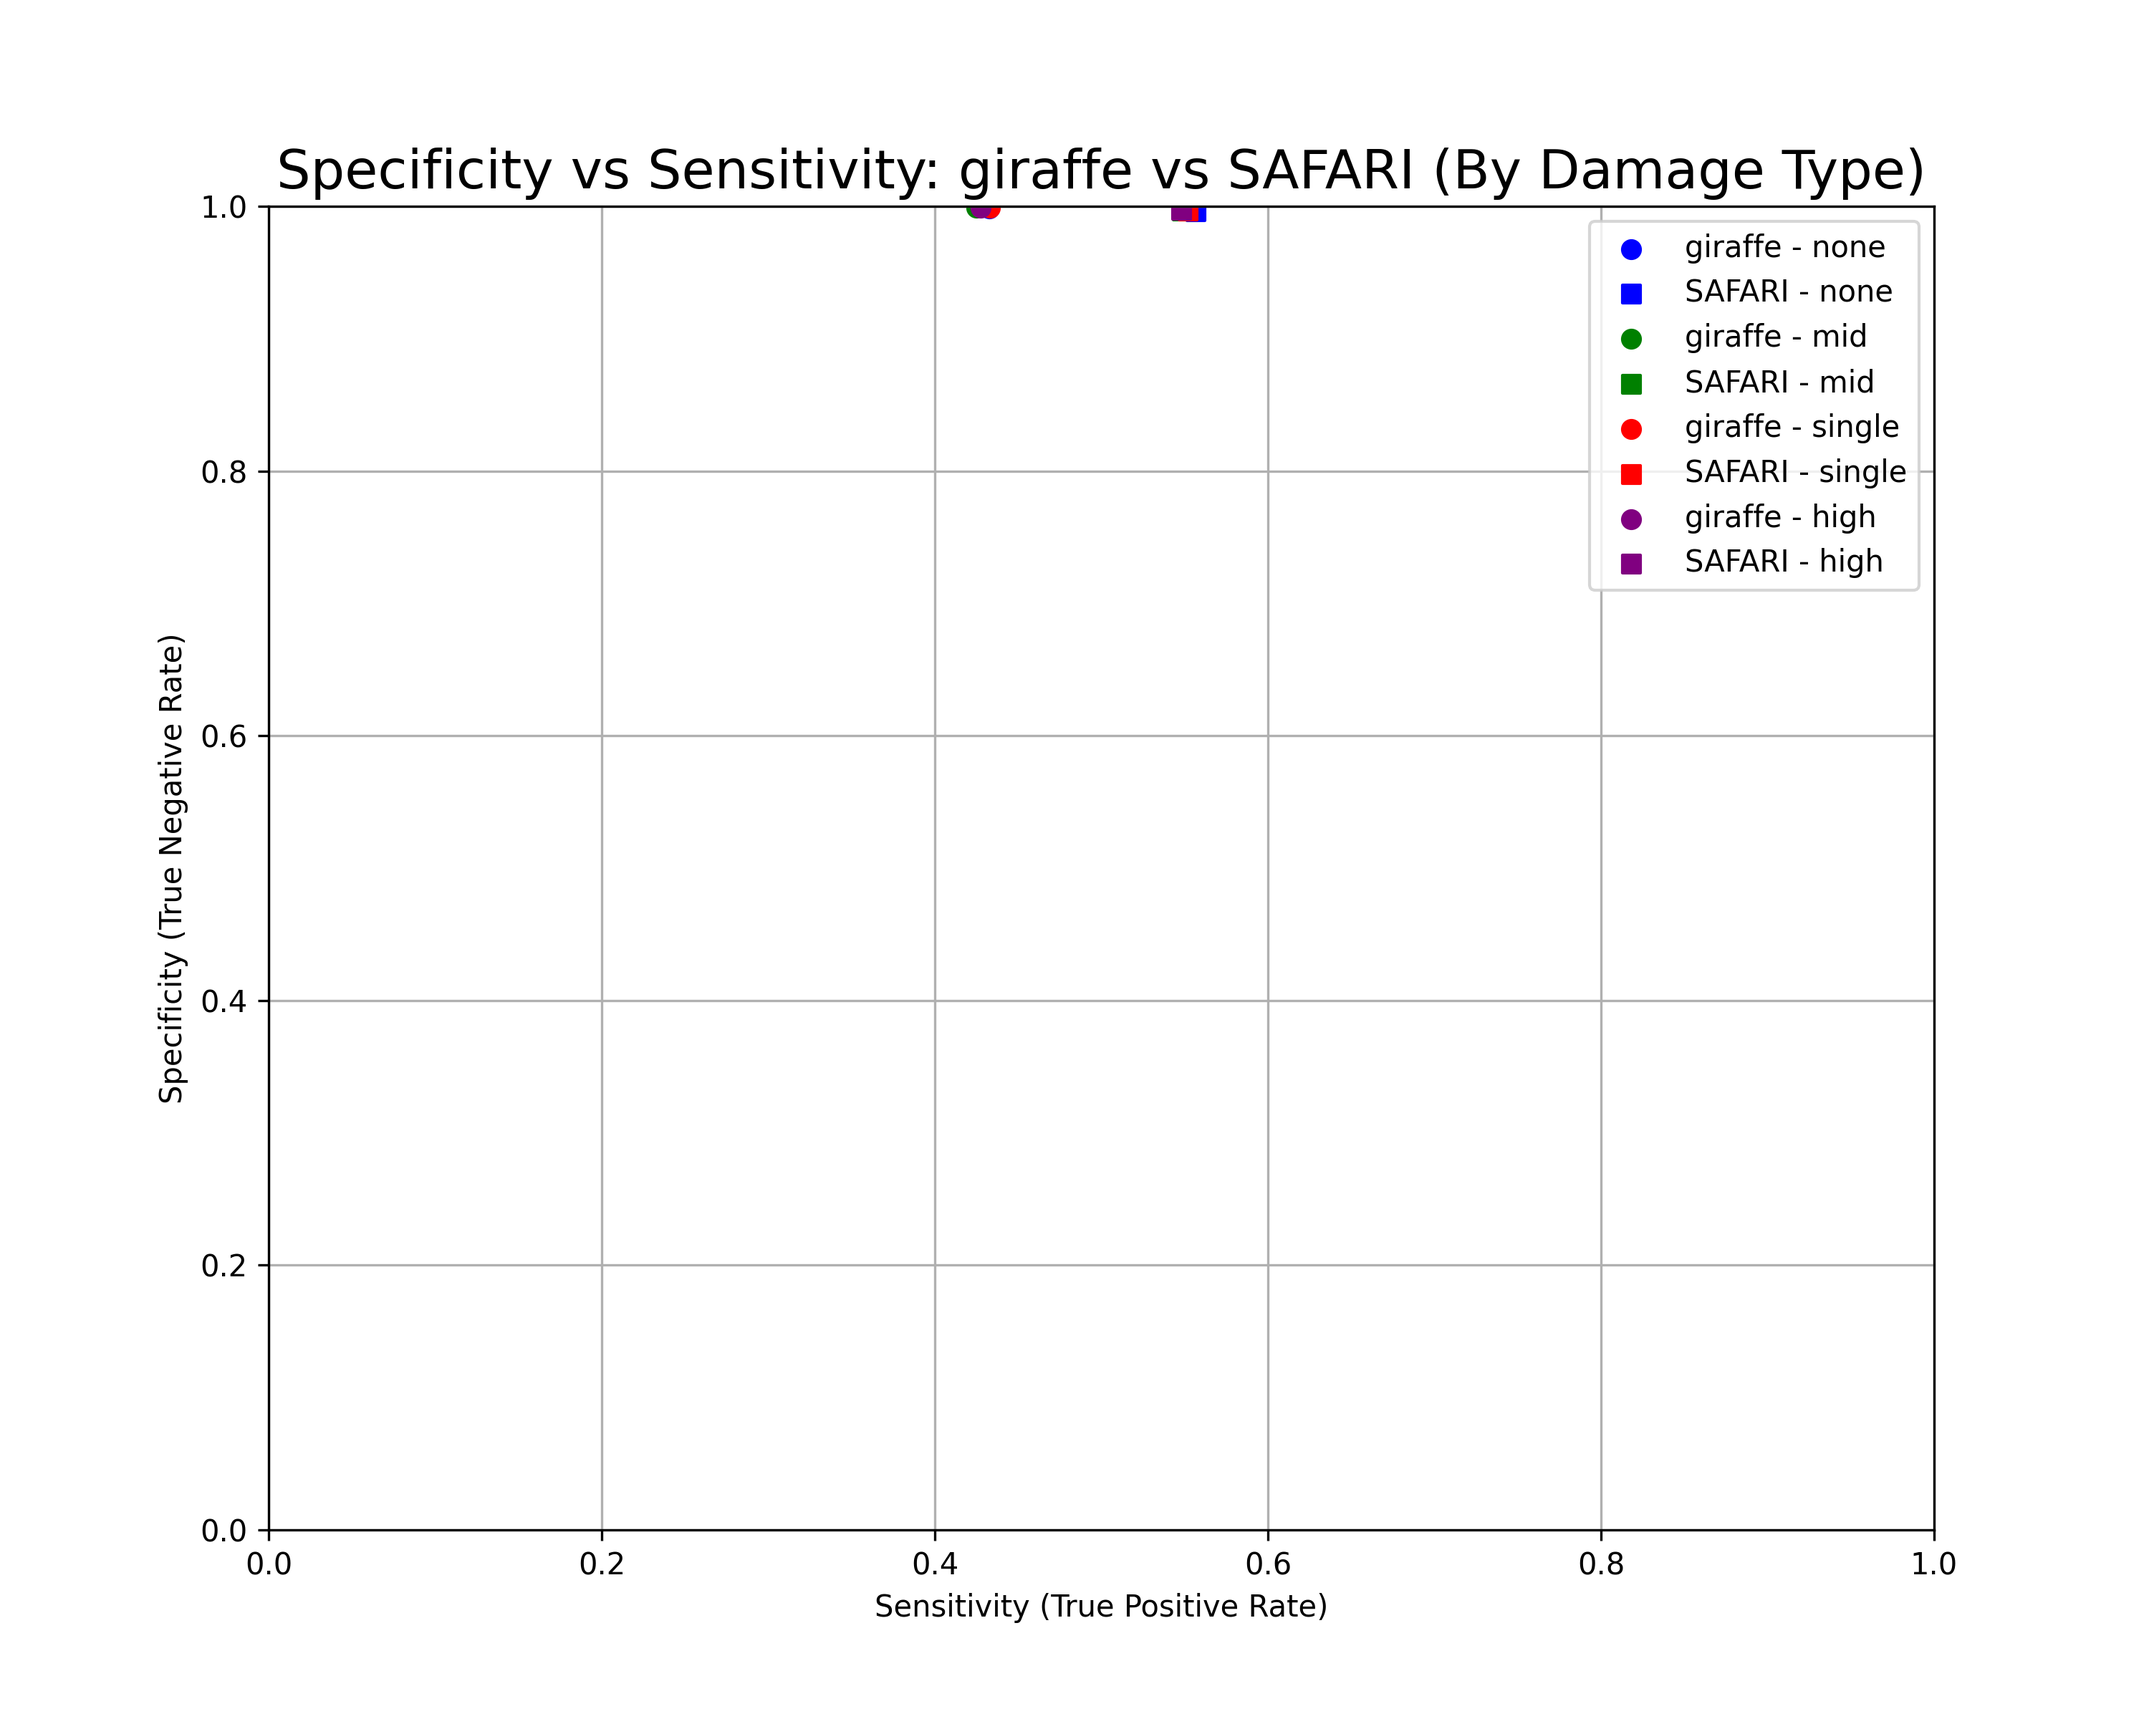
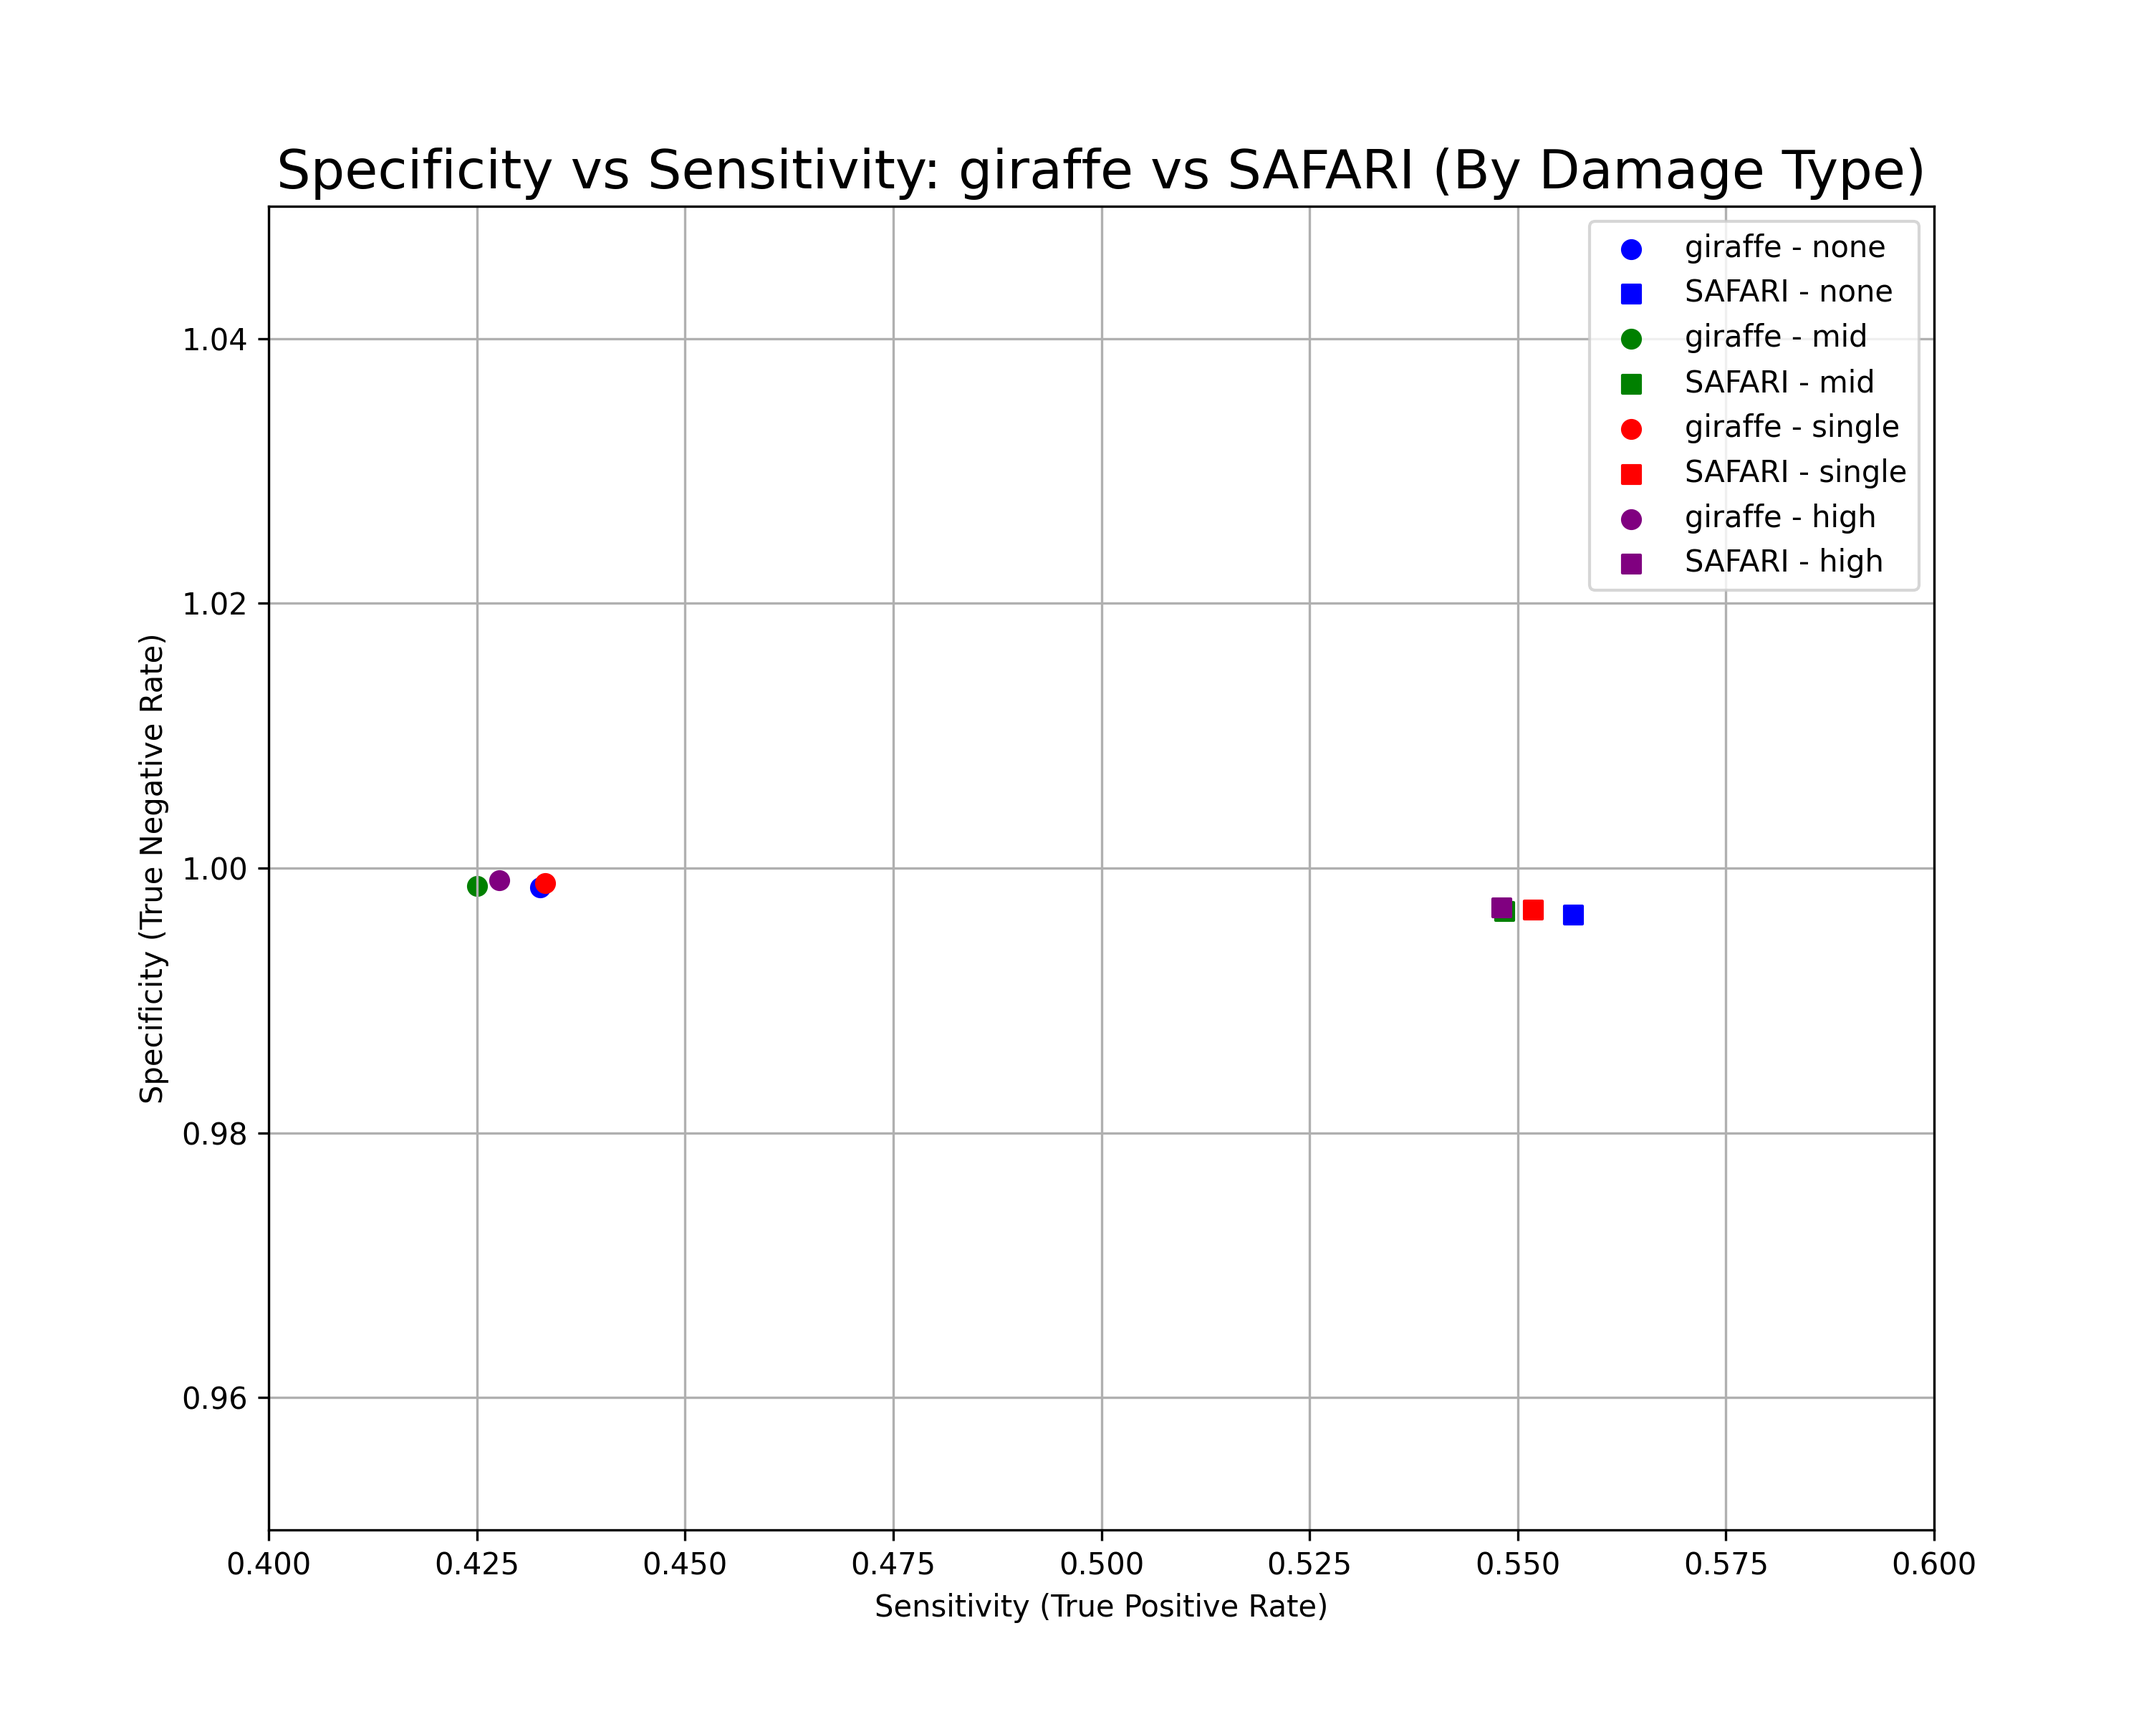
Update

diff --git a/linear_experiment/human_mito/linear_benchmark.py b/linear_experiment/human_mito/linear_benchmark.py
@@ -1,10 +1,11 @@
 import pandas as pd
 import matplotlib.pyplot as plt
 
-def calculate_precision_recall(df):
-    precision = df['TP'] / (df['TP'] + df['FP'])
-    recall = df['TP'] / (df['TP'] + df['FN'])
-    return precision.mean(), recall.mean()
+# Function to calculate specificity and sensitivity
+def calculate_specificity_sensitivity(df):
+    sensitivity = df['TP'] / (df['TP'] + df['FN'])  # Same as Recall
+    specificity = df['TN'] / (df['TN'] + df['FP'])
+    return specificity.mean(), sensitivity.mean()
 
 def main(file_path):
     # Load data
@@ -20,32 +21,41 @@ def main(file_path):
     # Prepare plot
     plt.figure(figsize=(10, 8))
 
-    # Markers for different aligners
+    # Markers and colors for different aligners and damage types
     markers = {'giraffe': 'o', 'SAFARI': 's'}
+    colors = ['blue', 'green', 'red', 'purple']
 
     # Plotting
-    for damage_type in damage_types:
+    for i, damage_type in enumerate(damage_types):
         # Filter data by damage type
         giraffe_dt_data = giraffe_data[giraffe_data['Damage_Type'] == damage_type]
         safari_dt_data = safari_data[safari_data['Damage_Type'] == damage_type]
 
-        # Calculate precision and recall
-        giraffe_precision, giraffe_recall = calculate_precision_recall(giraffe_dt_data)
-        safari_precision, safari_recall = calculate_precision_recall(safari_dt_data)
+        # Calculate specificity and sensitivity
+        giraffe_specificity, giraffe_sensitivity = calculate_specificity_sensitivity(giraffe_dt_data)
+        safari_specificity, safari_sensitivity = calculate_specificity_sensitivity(safari_dt_data)
 
-        # Plot points for giraffe and SAFARI data
-        plt.scatter(giraffe_recall, giraffe_precision, marker=markers['giraffe'], label=f'giraffe - {damage_type}')
-        plt.scatter(safari_recall, safari_precision, marker=markers['SAFARI'], label=f'SAFARI - {damage_type}')
+        # Plot points for giraffe and SAFARI data with different colors
+        plt.scatter(giraffe_sensitivity, giraffe_specificity, color=colors[i], marker=markers['giraffe'], label=f'giraffe - {damage_type}')
+        plt.scatter(safari_sensitivity, safari_specificity, color=colors[i], marker=markers['SAFARI'], label=f'SAFARI - {damage_type}')
 
     # Adding labels and title
-    plt.xlabel('Recall')
-    plt.ylabel('Precision')
-    plt.title('Precision vs Recall: giraffe vs SAFARI (By Damage Type)', fontsize=18)
+    plt.xlabel('Sensitivity (True Positive Rate)')
+    plt.ylabel('Specificity (True Negative Rate)')
+    plt.title('Specificity vs Sensitivity: giraffe vs SAFARI (By Damage Type)', fontsize=18)
     plt.legend(loc='best')
     plt.grid(True)
 
-    # Save the plot with high resolution
-    plt.savefig('precision_recall_comparison.png', dpi=300)
+    # Set the same scale for both axes
+    plt.xlim(0.4, 0.6)
+    plt.ylim(0.95, 1.05)
+
+    # Save the plot with the same scale for axes
+    output_file_path = file_path.replace('.csv', '_specificity_sensitivity_plot.png')
+    plt.savefig(output_file_path, dpi=300)
+    plt.close()
+
+    print(f"Plot saved as {output_file_path}")
 
 if __name__ == '__main__':
     import sys
